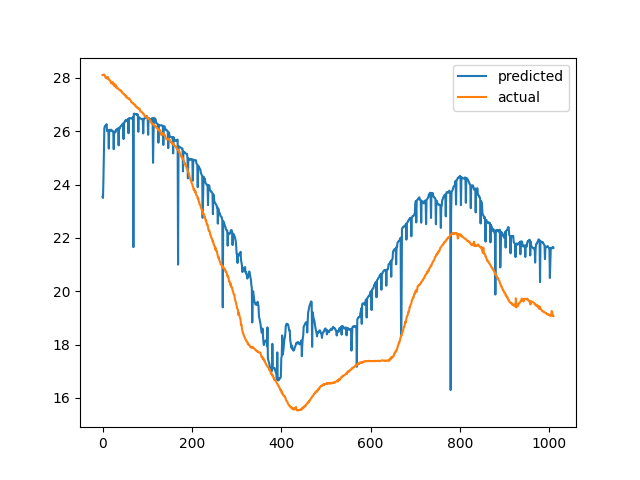
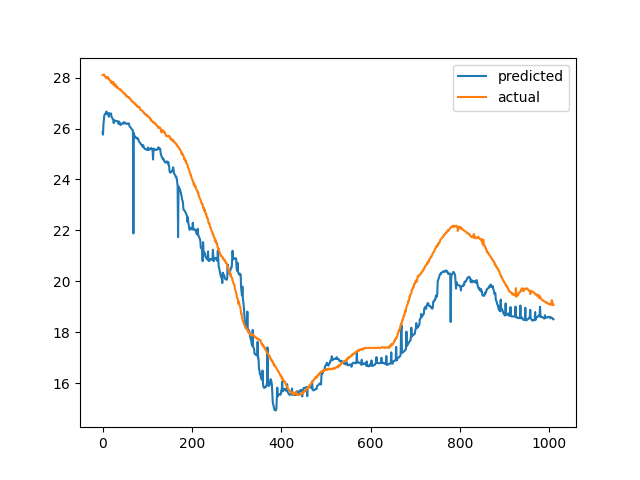
training doesn't use first frame

diff --git a/utils.py b/utils.py
@@ -42,7 +42,7 @@ class SpeedDojo(Dojo):
         model = model.to(device)
         step = 1
         epoch = 1
-        vae_gain = 100.0
+        vae_gain = 10.0
         sup_gain  = 1.0
 
         while True:
@@ -55,7 +55,7 @@ class SpeedDojo(Dojo):
 
                 vel_pred, vae_out = model(image_batch)
 
-                total_loss, vae_loss, sup_loss = self.obj_func(vae_out['reconstruction'], image_batch, vae_out['mu'], vae_out['logvar'], vel_pred, label_batch.unsqueeze(1), vae_gain, sup_gain)
+                total_loss, vae_loss, sup_loss = self.obj_func(vae_out['reconstruction'], image_batch, vae_out['mu'], vae_out['logvar'], vel_pred[1:], label_batch.unsqueeze(1)[1:], vae_gain, sup_gain)
 
                 total_loss.backward()
                 optimizer.step()
@@ -73,7 +73,7 @@ class SpeedDojo(Dojo):
 
                     with torch.no_grad():
                         vel_pred_test, vae_out_test = model(image_batch_test)
-                        total_loss_test, vae_loss_test, sup_loss_test = self.obj_func(vae_out_test['reconstruction'], image_batch_test, vae_out_test['mu'], vae_out_test['logvar'], vel_pred_test, label_batch_test.unsqueeze(1), 100.0, 1.0)
+                        total_loss_test, vae_loss_test, sup_loss_test = self.obj_func(vae_out_test['reconstruction'], image_batch_test, vae_out_test['mu'], vae_out_test['logvar'], vel_pred_test[1:], label_batch_test.unsqueeze(1)[1:], 100.0, 1.0)
 
                     logger.log_scalar(step, total_loss_test.item(), "Total test loss")
                     logger.log_scalar(step, vae_loss_test.item(), "VAE test loss")

diff --git a/plot_out.py b/plot_out.py
@@ -65,8 +65,6 @@ with torch.no_grad():
 
         vel_pred, vae_out = speedmodel(image_batch)
         vel_preds.append(vel_pred.cpu())
-        if i == 100:
-            break
 
 vel_preds = torch.cat(vel_preds).squeeze(0)
 vel_actual = torch.cat(vel_actual).squeeze(0)

diff --git a/README.md b/README.md
@@ -8,4 +8,4 @@ The objective of this project is to predict vehicle velocity with a dashcam usin
 - [x] Train model
 - [x] Plot output from model
 - [ ] Work on model so that it actually works
-- [ ] Training should not use first frame
+- [x] Training should not use first frame
